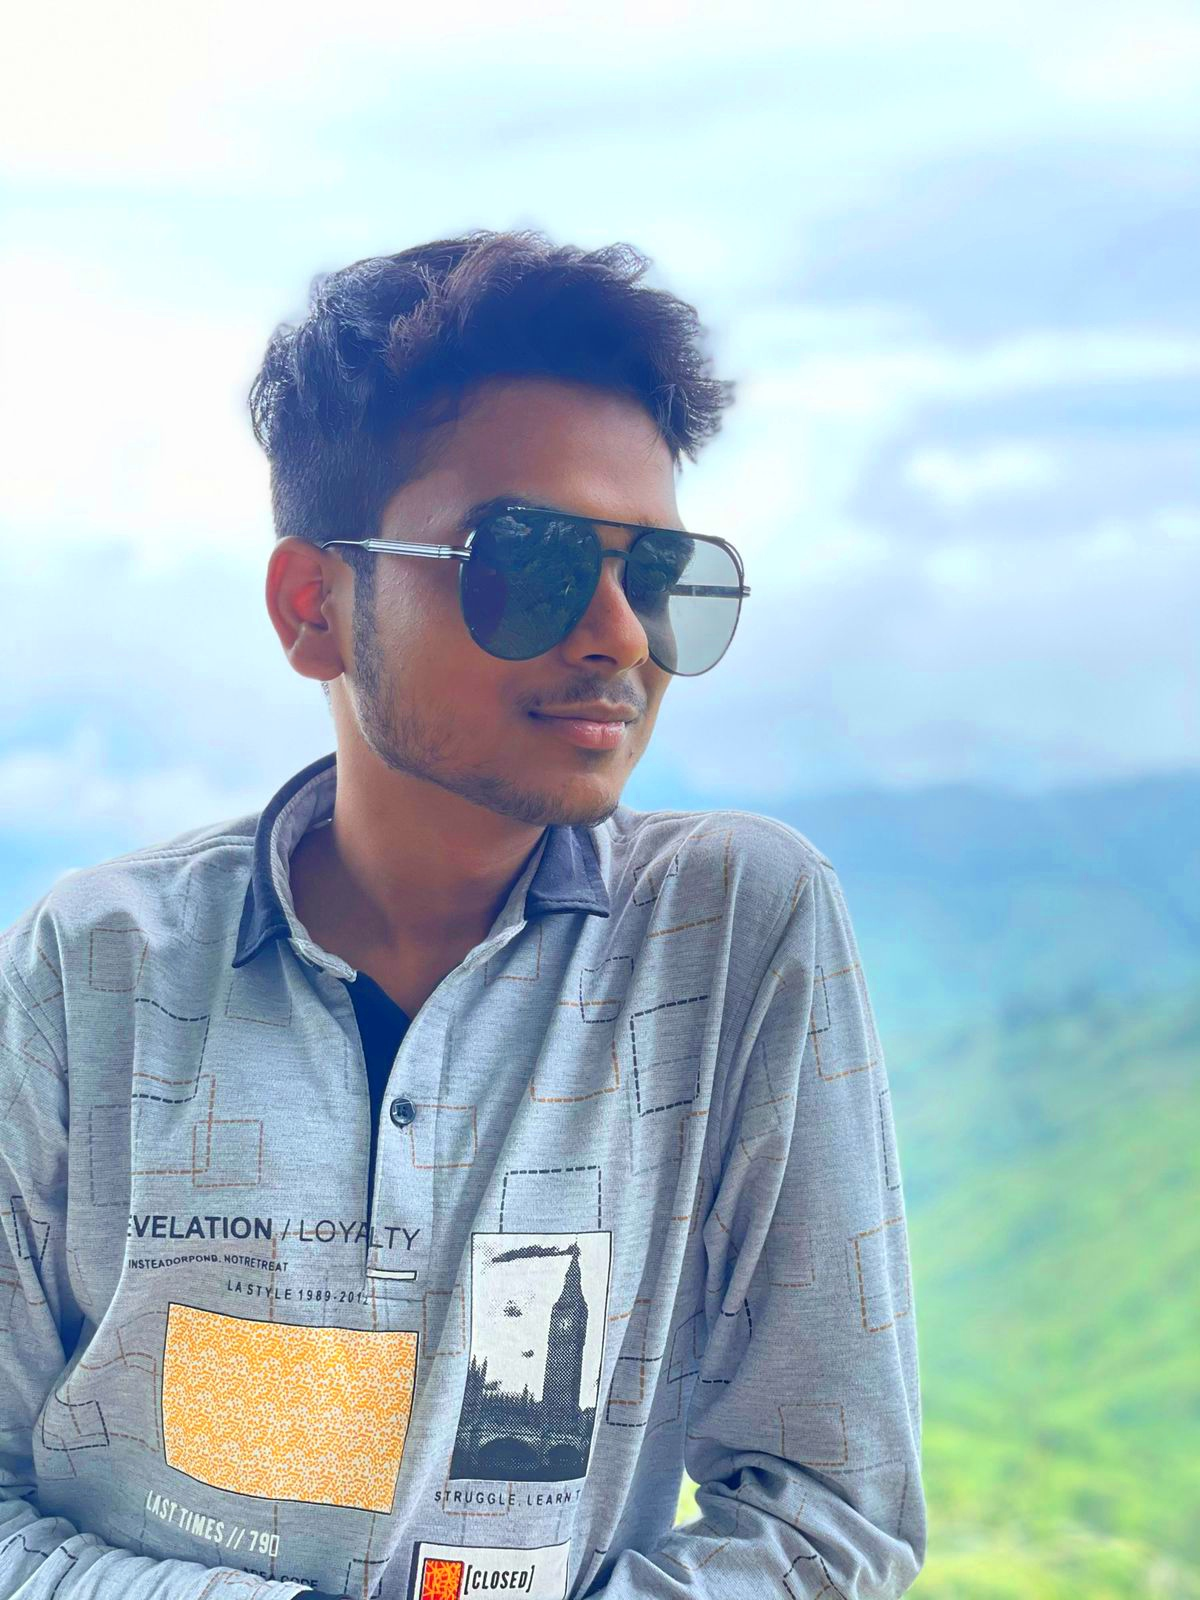
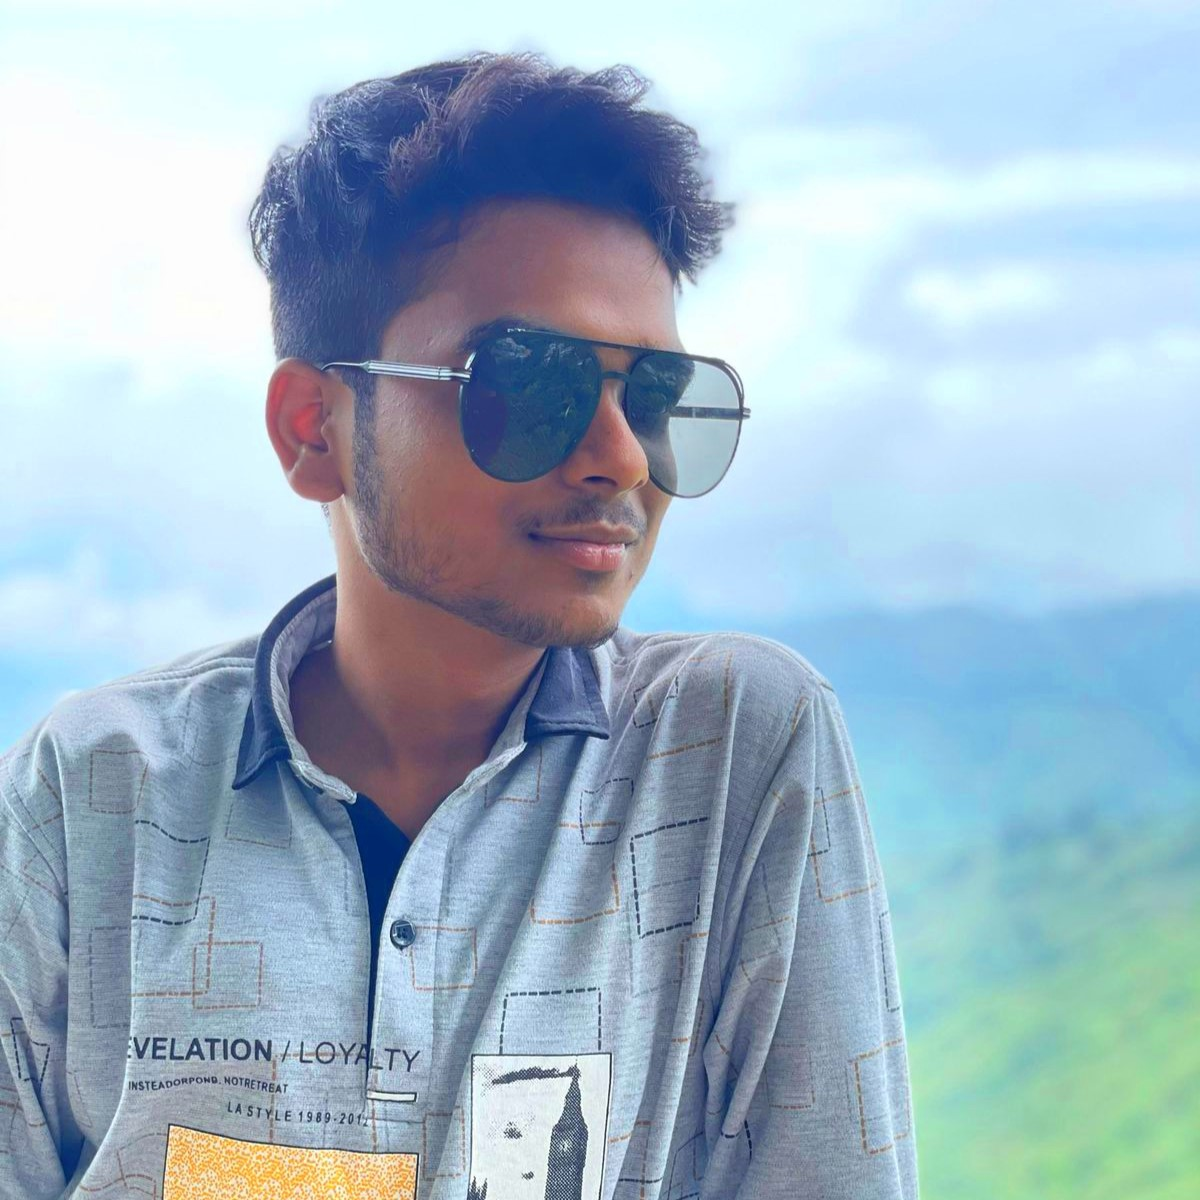
Added and fixed team photos

diff --git a/src/components/Team/Tech.js b/src/components/Team/Tech.js
@@ -2,7 +2,7 @@ import React, { useEffect } from "react";
 // image import
 import Kushal from "../resources/image_kushal.jpg";
 import Priyanshi from "../resources/pryanshi.jpg";
-import Soumyajyoti from "../resources/image_profile.jpg";
+import Soumyajyoti from "../resources/soumya.jpeg";
 import vinod from "../resources/image_vinod.jpg"
 
 import Aos from "aos";
